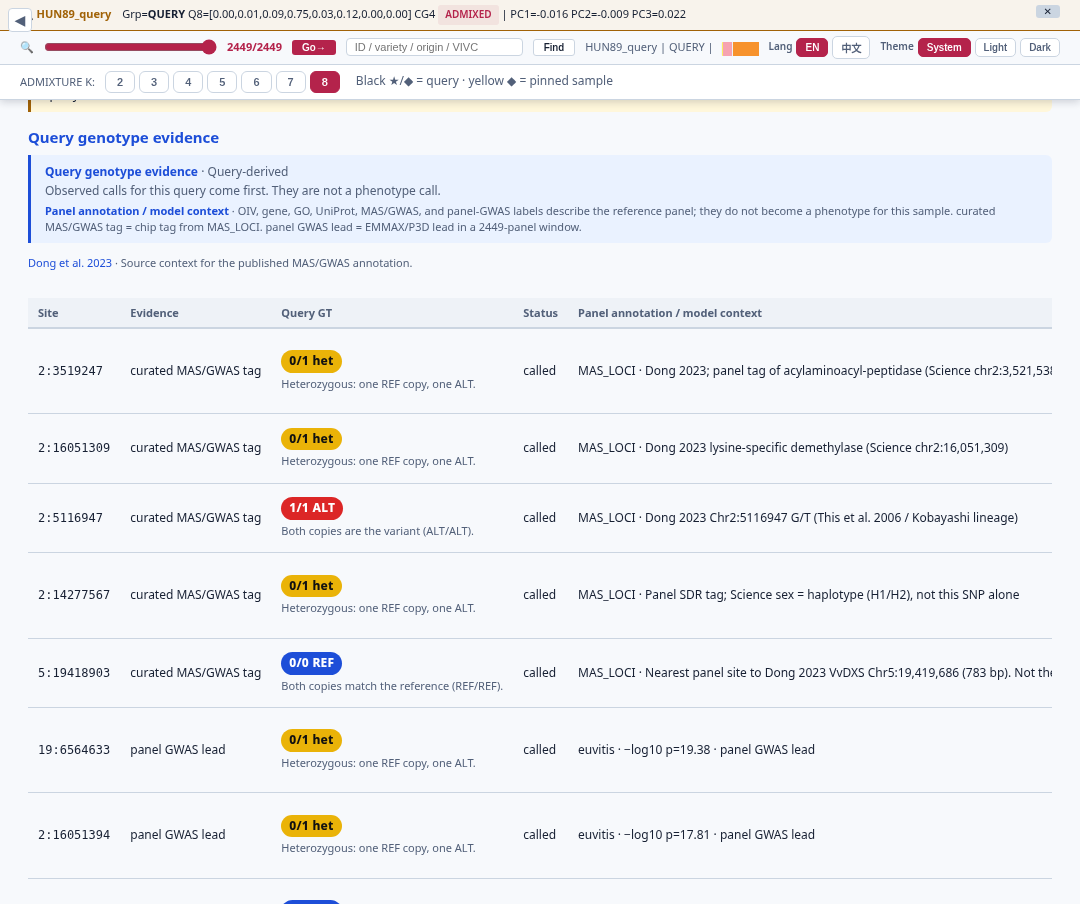
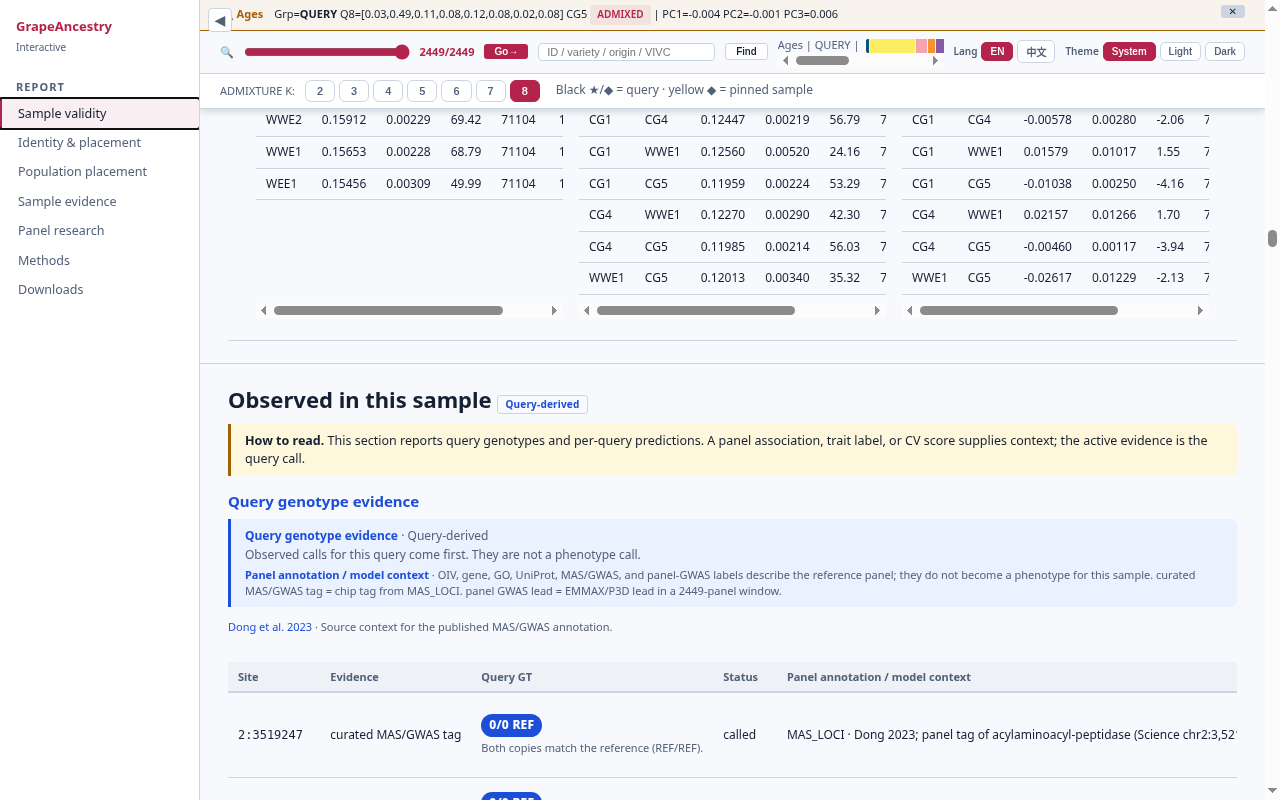
docs: Ages demo (Noraz/Orlando V5), flow first, more previews
Primary public demo is Ages aDNA with required cite; flowchart moves
to the top of README; seven Ages report preview panels replace HUN89.

diff --git a/README.md b/README.md
@@ -5,6 +5,14 @@ Analysis companion for the grapevine **167K capture panel** — interactive repo
 [![License: MIT](https://img.shields.io/badge/License-MIT-yellow.svg)](LICENSE)
 [![ORCID](https://img.shields.io/badge/ORCID-0000--0003--3670--6657-a6ce39)](https://orcid.org/0000-0003-3670-6657)
 
+## Analysis flow
+
+**Three inputs, one line:** FASTQ / BAM / query VCF → **VS-1** → 167K sites → analyses → report or `chip.json`.
+
+![GrapeAncestry analysis flowchart](docs/flowchart_vs1_analysis_v2.png)
+
+*Solid arrows stop at tonight's hand-in (`*.sample-first-v2.report.html` / `chip.json`). Dashed = how you read the report. Detail: [`docs/FLOWCHART.md`](docs/FLOWCHART.md).*
+
 ## What this is
 
 GrapeAncestry places a **new grapevine query** against a **frozen 2449 × 167K** reference built on the **VS-1** genome. From the same sample you can read capture QC, identity and kinship screens, PCA and ADMIXTURE placement on frozen axes, an IBS neighbour-joining tree, passport-style cards, and — where the evidence supports ranking — a colour genomic-selection score.
@@ -24,6 +32,66 @@ This public GitHub tree is the **docs face** first. A runnable CLI, Docker custo
 | **This docs tree alone** | read only — no hand-in file |
 
 Hand-in is a **filename**, not every sidebar tab.
+
+## Demo
+
+**Primary demo:** `Ages` — ancient SE library from archaeological grape material labeled **V5** in the source study (Iron Age Martigues, southern France, ~300–200 BCE). Suite config: `config/samples_ages.yaml` → FASTQ `V5xL1xP2_Ages_3_5070.12Xv2.realigned.fastq.gz` → AdapterRemoval + `bwa aln` on **VS-1** → 167K call → `Ages.sample-first-v2.report.html`.
+
+**Cite the source data (required):** Noraz, R., … & **Orlando, L.** (2026). Ancient DNA reveals 4000 years of grapevine diversity, viticulture and clonal propagation in France. *Nature Communications*. [https://doi.org/10.1038/s41467-026-70166-z](https://doi.org/10.1038/s41467-026-70166-z). Sample **V5** is discussed there as an Iron Age Martigues pip with domesticated-like ancestry.
+
+This demo shows the **aDNA** door of the companion (damage module meaningful; modern PE demos are separate). Hand-in name remains `Ages.sample-first-v2.report.html` when you run Suite / Docker.
+
+**What the Ages report walks:**
+
+1. Sample validity — provenance, capture QC, **aDNA damage** note
+2. Identity — IBS / kinship vs the frozen 2449 panel
+3. Population — frozen PCA · ADMIXTURE K=2–8 · NJ
+4. Sample evidence — MAS / trait cards; only **OIV 225** colour GS is decision-grade
+5. Panel research + **LocusZoom** — 2449 context; query GT is overlay only
+6. Methods / Downloads
+
+**How to open it**
+
+- **This docs tree:** screenshot walkthrough in [`docs/GUIDELINE.md`](docs/GUIDELINE.md) (Ages-oriented; article-style intros).
+- **Local suite with finished HTML:**
+
+```bash
+cd /path/to/local-suite
+python -m http.server
+# http://localhost:8000/results/Ages.sample-first-v2.report.html
+```
+
+- **Docker image:** sidebar → **Demos** → Ages.
+
+**Preview frames** (Ages report; fuller set in GUIDELINE):
+
+![Ages sample validity](docs/guideline_shots/panels/01_sample_validity_01.png)
+
+*Sample validity — metadata / method coverage (Ages aDNA).*
+
+![Ages aDNA damage](docs/guideline_shots/panels/01_sample_validity_damage.png)
+
+*aDNA damage — Ages SE library (meaningful on this door).*
+
+![Ages identity](docs/guideline_shots/panels/02_identity_01.png)
+
+*Identity — IBS / kinship vs the frozen 2449 panel.*
+
+![Ages PCA](docs/guideline_shots/panels/03_pca.png)
+
+*Population placement — Ages query on frozen GCTA64 PCA.*
+
+![Ages ADMIXTURE](docs/guideline_shots/panels/03_admixture.png)
+
+*ADMIXTURE — Ages projected on frozen K=2–8.*
+
+![Ages sample evidence](docs/guideline_shots/panels/04_sample_evidence_01.png)
+
+*Sample evidence — passport / MAS cards; only OIV 225 colour GS is decision-grade.*
+
+![Ages LocusZoom](docs/guideline_shots/panels/05_locuszoom.png)
+
+*LocusZoom — panel map + Ages genotype overlay.*
 
 ## Install and use
 
@@ -57,7 +125,7 @@ BAM tip: if `@SQ` looks like `chr1` / 12X / PN40024, the job fails — start fro
 ### C · Cloud Chip Companion (classroom)
 
 1. Upload a **167K-site query VCF** (not FASTQ) in Streamlit.
-2. Hand in **`chip.json`.
+2. Hand in **`chip.json`**.
 3. Notes: [`docs/CHIP_COMPANION.md`](docs/CHIP_COMPANION.md).
 
 ### D · Local lab suite (developers with private checkout)
@@ -67,51 +135,10 @@ If you already have a finished demo HTML next to `assets/`:
 ```bash
 cd /path/to/local-suite   # not this docs-only clone
 python -m http.server
-# http://localhost:8000/results/HUN89_query.sample-first-v2.report.html
+# http://localhost:8000/results/Ages.sample-first-v2.report.html
 ```
 
 `http.server` is **view-only** — it does not create a hand-in file. End-to-end `grapeancestry run` needs conda env `ga` + panel assets; see USER_GUIDE / suite README when you have that tree.
-
-## Demo
-
-**Demo sample:** `HUN89_query` — modern PE recapture of the panel variety story behind `HUN89`. Same biology narrative, **different file identity** (see ID trap above).
-
-**What the demo report walks:**
-
-1. Sample validity — provenance, capture QC, damage note
-2. Identity — clone / PO / IBS neighbors (pin a row to overlay plots)
-3. Population — frozen PCA · ADMIXTURE K=2–8 · NJ
-4. Sample evidence — MAS / trait cards; only **OIV 225** colour GS is decision-grade
-5. Panel research + **LocusZoom** — 2449 context; query GT is overlay only
-6. Methods / Downloads
-
-**How to see it today**
-
-- **On this GitHub tree:** follow the long screenshots in [`docs/GUIDELINE.md`](docs/GUIDELINE.md) (article-style intros + every panel).
-- **With a local suite HTML:** use the `http.server` command in Install §D.
-- **With the Docker image:** sidebar → **Demos** → `HUN89_query` / Ages.
-
-**Three preview frames** (full set in GUIDELINE):
-
-![Sample validity](docs/guideline_shots/panels/01_sample_validity_01.png)
-
-*Sample validity — metadata, method coverage, conclusions.*
-
-![PCA](docs/guideline_shots/panels/03_pca.png)
-
-*Population placement — query (black star) on frozen GCTA64 PCA.*
-
-![LocusZoom](docs/guideline_shots/panels/05_locuszoom.png)
-
-*LocusZoom — panel GWAS map + this query genotype overlay (OIV 225 example).*
-
-## Analysis flow
-
-**Three inputs, one line:** FASTQ / BAM / query VCF → **VS-1** → 167K sites → analyses → report or `chip.json`.
-
-![GrapeAncestry analysis flowchart](docs/flowchart_vs1_analysis_v2.png)
-
-*Solid arrows stop at tonight's hand-in (`*.sample-first-v2.report.html` / `chip.json`). Dashed = how you read the report. Detail: [`docs/FLOWCHART.md`](docs/FLOWCHART.md).*
 
 ## Related
 

diff --git a/docs/GUIDELINE.md b/docs/GUIDELINE.md
@@ -136,9 +136,9 @@ Screenshots below are **non-overlapping panel crops** (no full+viewport duplicat
 
 ## Walk the demo report
 
-The GrapeAncestry 167K capture panel analysis companion provides a dedicated analytical framework on the VS-1 reference genome, utilizing a frozen 2449 × 167K dosage cache, GCTA64 principal component axes, ADMIXTURE Q/P matrices (K=2–8), and genomic selection models. This walkthrough uses the `HUN89_query` sample-first-v2 report HTML. Screenshots below are **non-overlapping panel crops** (no full+viewport duplicates). Panel research stays coarse; **one dedicated LocusZoom** shot is included.
+The GrapeAncestry 167K capture panel analysis companion provides a dedicated analytical framework on the VS-1 reference genome, utilizing a frozen 2449 × 167K dosage cache, GCTA64 principal component axes, ADMIXTURE Q/P matrices (K=2–8), and genomic selection models. This walkthrough uses the **`Ages`** sample-first-v2 report HTML (aDNA SE; archaeological sample **V5**). Cite: Noraz et al. 2026 *Nat Commun* ([doi:10.1038/s41467-026-70166-z](https://doi.org/10.1038/s41467-026-70166-z); incl. **Ludovic Orlando**). Screenshots below are **non-overlapping panel crops** (no full+viewport duplicates). Panel research stays coarse; **one dedicated LocusZoom** shot is included.
 
-Demo stem: `HUN89_query` (modern PE recapture). Compare mentally to panel ID `HUN89` — same variety story, different file identity.
+Demo stem: `Ages` (aDNA SE from V5 / Iron Age Martigues). Modern PE recaptures (e.g. `HUN89_query`) are a separate door — do not confuse panel IDs with aDNA demo stems.
 
 ### 1 · Sample validity
 

diff --git a/docs/USER_GUIDE.md b/docs/USER_GUIDE.md
@@ -106,7 +106,7 @@ Do not strip contig prefixes hoping the caller will “just work”.
 
 ## 5. Demos **(image)** / **(docs)**
 
-**(image)** Sidebar → **Demos**: finished Ages and `HUN89_query` V2 reports, plus an optional quick VCF JSON check (not the full VS-1 calling report). New customer samples use **Analysis**, not Demos.
+**(image)** Sidebar → **Demos**: primary **Ages** (V5 aDNA; cite Noraz et al. 2026 / Orlando — see README Demo) and optional modern-capture demos. New customer samples use **Analysis**, not Demos.
 
 **(docs)** Without the image, open the walkthrough screenshots in [`GUIDELINE.md`](GUIDELINE.md), or — if you have a local suite checkout with finished HTML:
 
@@ -114,7 +114,7 @@ Do not strip contig prefixes hoping the caller will “just work”.
 # path = local suite root (not the docs-only GitHub clone)
 cd /path/to/local-suite
 python -m http.server
-# http://localhost:8000/results/HUN89_query.sample-first-v2.report.html
+# http://localhost:8000/results/Ages.sample-first-v2.report.html
 ```
 
 `http.server` is **view-only**. It does **not** create a hand-in file.
